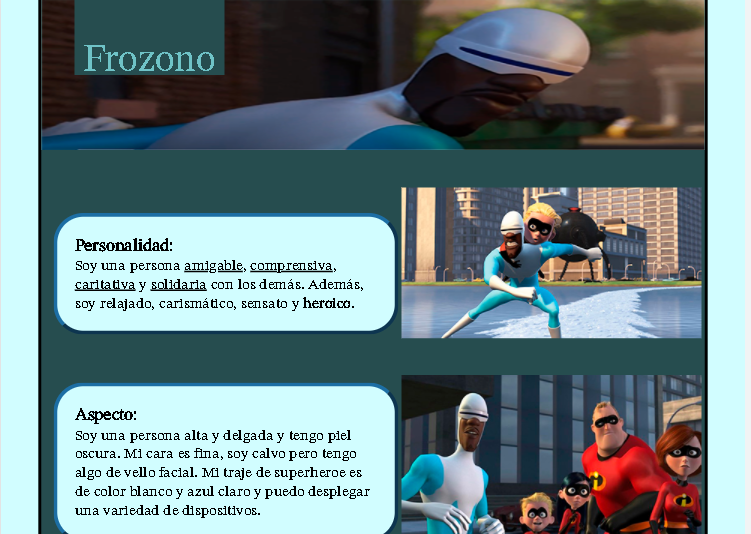
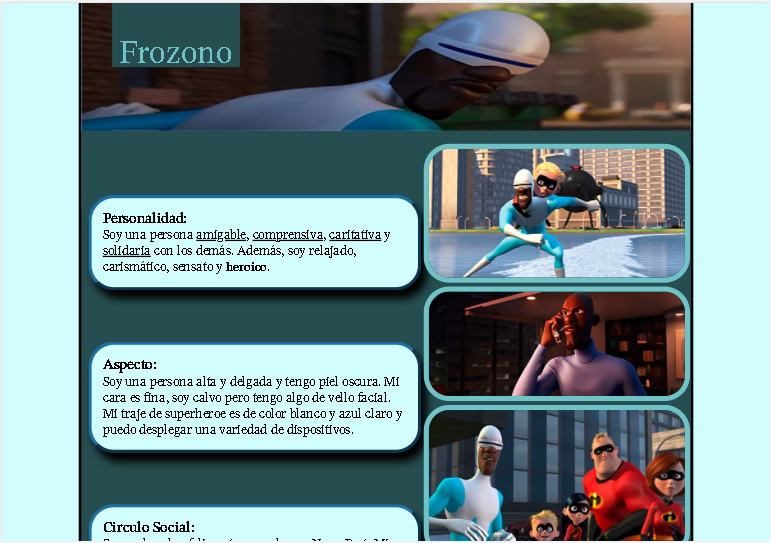
Add files via upload

diff --git a/web.html b/web.html
@@ -32,11 +32,14 @@
 				</div>
 			</nav>
 
-			<section class="fondoweb">
+			<nav class="navdos"><div><h3 class="subtitulo">Wireframe y Capturas de pantalla</h3></div></nav>
 
-				<h3 class="subtitulo">Wireframe y Capturas de pantalla</h3>
+			<section class="uno">
+
 
 				<br>
+
+		<!--		<div><h2 class="tamanios1">Escritorio 1400px</h2></div>
 
 				<div class="galeria01">
 
@@ -49,17 +52,16 @@
 
 <br>
 
-
-
-			<div><a data-fancybox="gallery" href="wire02.png">
+<div><a data-fancybox="gallery" href="wire02.png">
 				<img src="wire02p.png"></a>
 
 			<a data-fancybox="gallery" href="DP02.png">
 				<img src="DP02p.png"></a></div>
+-->
+<br>
+<h2 class="tamanios2">Escritorio</h2>
 
 <br>
-
-
 			<div><a data-fancybox="gallery" href="wire03.png">
 				<img src="wire03p.png"></a>
 
@@ -67,16 +69,17 @@
 				<img src="DP03p.png"></a></div>
 <br>
 
-
-			<div><a data-fancybox="gallery" href="wire04.png">
+<div><a data-fancybox="gallery" href="wire04.png">
 				<img src="wire04p.png"></a>
 
 			<a data-fancybox="gallery" href="DP04.png">
 				<img src="DP04p.png"></a></div>
 
 <br>
+			<h2 class="tamanios3">Tablet</h2>
+<br>
 
-			<div><a data-fancybox="gallery" href="wire05.png">
+<div><a data-fancybox="gallery" href="wire05.png">
 				<img src="wire05p.png"></a>
 
 			<a data-fancybox="gallery" href="DP05.png">
@@ -89,11 +92,13 @@
 
 			<a data-fancybox="gallery" href="DP06.png">
 				<img src="DP06p.png"></a></div>
+
+</section>
+<section class="dos">
+		<div class="derecha">
+
+				<h2 class="tamanios4">Celular</h2>
 <br>
-
-
-
-
 			<div><a data-fancybox="gallery" href="wire07.png">
 				<img src="wire07p.png"></a>
 
@@ -119,13 +124,12 @@
 
 			<a data-fancybox="gallery" href="DP09.png">
 				<img src="DP09p.png"></a></div>
-<br>
-
 
 			</div>
-				
-			</section>
 
+		</div>
+<br>
+</section>
 			<footer>
 			<div>
 			<a href="https://www.palermo.edu/" target="_blank"><img src="logoup.png" class="logoup"></a>

diff --git a/index.html b/index.html
@@ -33,21 +33,21 @@
 		<div id="imagenes">
 
 
-			<img src="frozonoH.png" class="foto1">
+			<img src="frozonoH.png" id="redondo" class="foto1">
 			
 
-			<img src="ft.png" class="noesta">
-			
-
-			<br>
-			
-
-			<img src="fp.png" class="foto2">
+			<img src="ft.png" id="redondo" class="noesta">
 			
 
 			<br>
 			
-			<iframe width="400" height="200" src="https://www.youtube.com/embed/zRvyR3PjZck" title="YouTube video player" frameborder="0" allow="accelerometer; autoplay; clipboard-write; encrypted-media; gyroscope; picture-in-picture" allowfullscreen class="foto3"></iframe>
+
+			<img src="fp.png" id="redondo" class="foto2">
+			
+
+			<br>
+			
+			<iframe width="400" height="200" src="https://www.youtube.com/embed/zRvyR3PjZck" title="YouTube video player" frameborder="0" allow="accelerometer; autoplay; clipboard-write; encrypted-media; gyroscope; picture-in-picture" allowfullscreen id="redondo" class="foto3"></iframe>
 		
 		</div>
 
